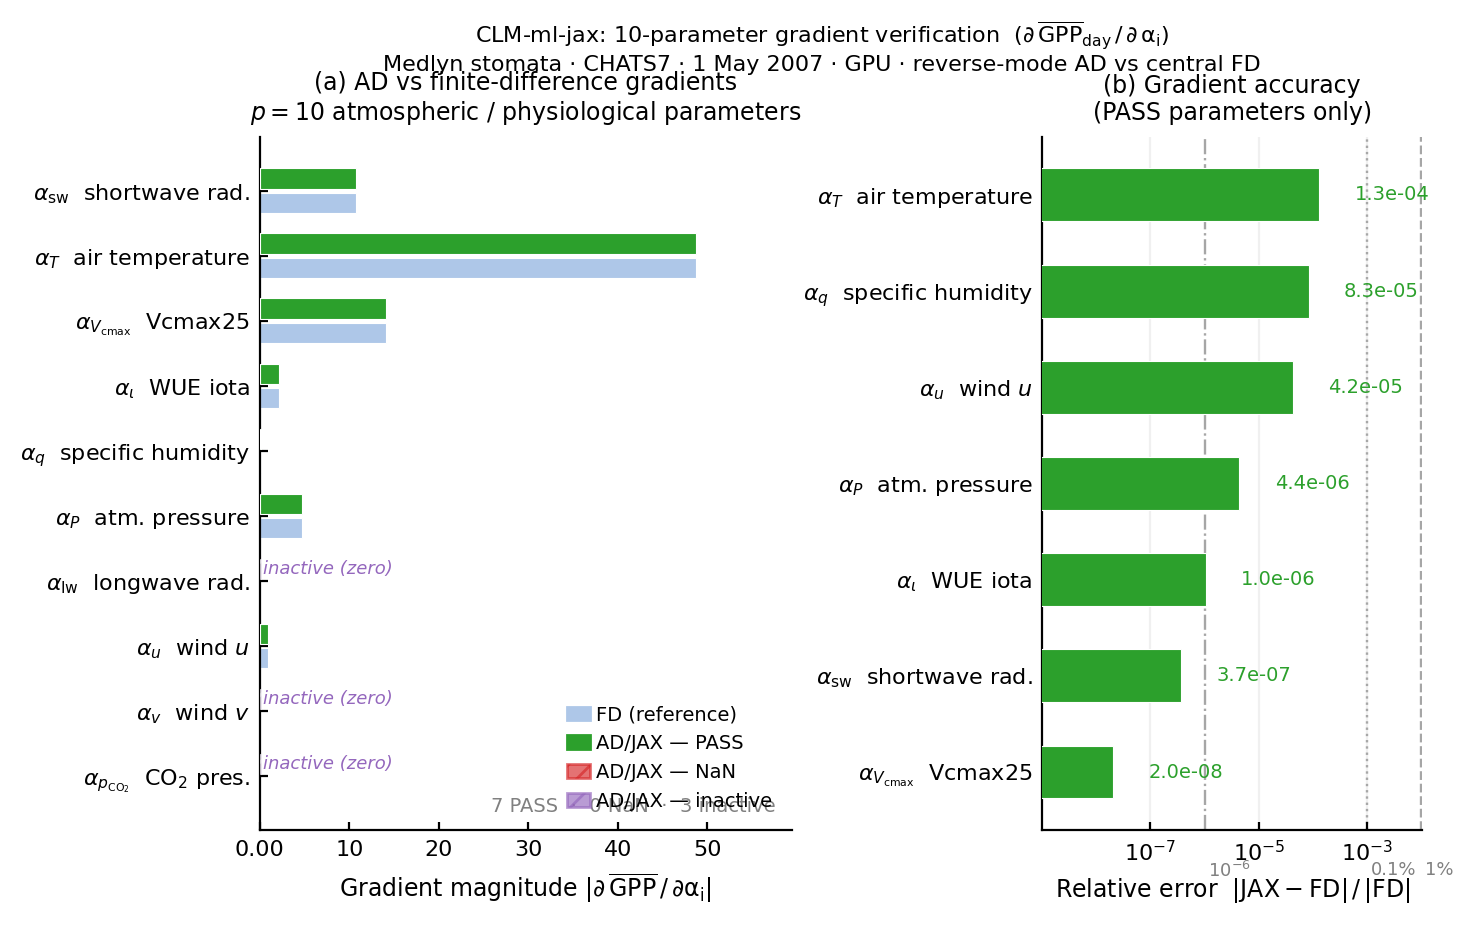
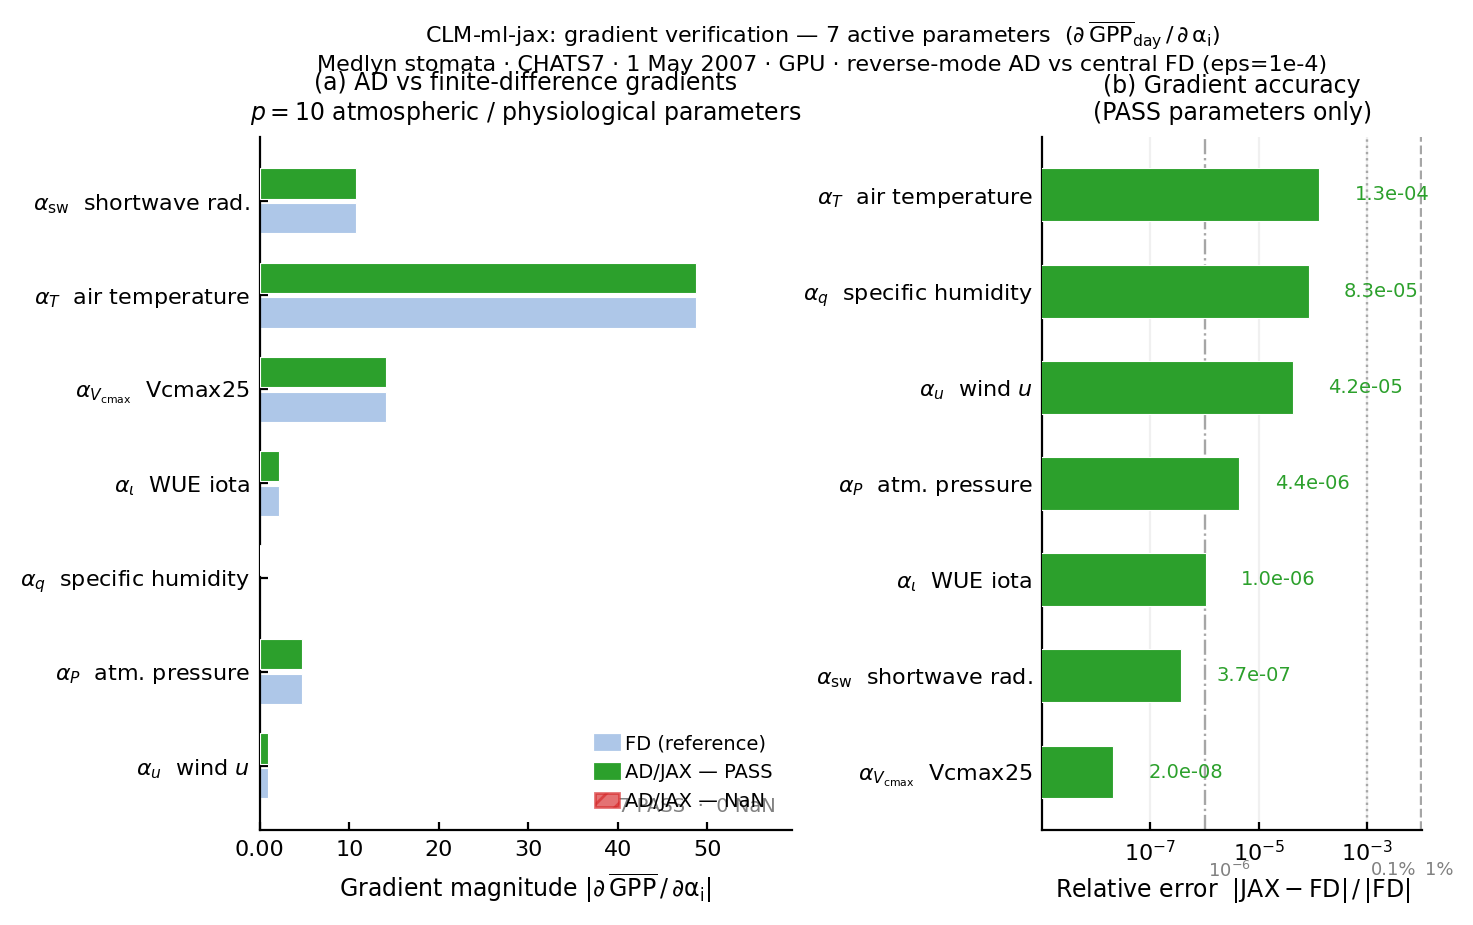
diags: remove inactive params from 10param grad plot

diff --git a/diags/plot_10param_grads.py b/diags/plot_10param_grads.py
@@ -45,6 +45,7 @@ def _f(s):
 with open(DATA, newline="") as fh:
     rows = list(csv.DictReader(fh))
 
+rows     = [r for r in rows if r["status"] != "INACT"]
 params   = [r["param"] for r in rows]
 statuses = [r["status"] for r in rows]
 grad_jax = np.array([_f(r["grad_jax"]) for r in rows])
@@ -151,17 +152,14 @@ patch_fd  = mpatches.Patch(color="#aec7e8", label="FD (reference)")
 patch_p   = mpatches.Patch(color="#2ca02c", label="AD/JAX — PASS")
 patch_nan = mpatches.Patch(color="#d62728", hatch="///", alpha=0.65,
                            label="AD/JAX — NaN")
-patch_ina = mpatches.Patch(color="#9467bd", hatch="///", alpha=0.65,
-                           label="AD/JAX — inactive")
-ax.legend(handles=[patch_fd, patch_p, patch_nan, patch_ina],
+ax.legend(handles=[patch_fd, patch_p, patch_nan],
           fontsize=7, loc="lower right", handlelength=1.2,
           handletextpad=0.3, borderpad=0.5)
 
 n_pass = statuses.count("PASS")
 n_nan  = statuses.count("NaN")
-n_ina  = statuses.count("INACT")
 ax.text(0.97, 0.02,
-        f"{n_pass} PASS  ·  {n_nan} NaN  ·  {n_ina} inactive",
+        f"{n_pass} PASS  ·  {n_nan} NaN",
         transform=ax.transAxes, fontsize=7, ha="right", va="bottom",
         color="gray")
 
@@ -213,9 +211,9 @@ ax2.set_xlim(pass_err_s.min() * 0.05, xlim_right)
 
 # ── Suptitle ──────────────────────────────────────────────────────────────────
 fig.suptitle(
-    "CLM-ml-jax: 10-parameter gradient verification  "
+    "CLM-ml-jax: gradient verification — 7 active parameters  "
     r"($\partial\,\overline{\rm GPP}_{\rm day}\,/\,\partial\,\alpha_i$)"
-    "\nMedlyn stomata · CHATS7 · 1 May 2007 · GPU · reverse-mode AD vs central FD",
+    "\nMedlyn stomata · CHATS7 · 1 May 2007 · GPU · reverse-mode AD vs central FD (eps=1e-4)",
     fontsize=8, y=1.01,
 )
 